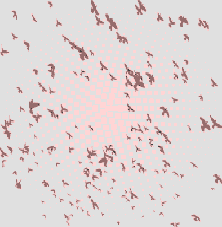
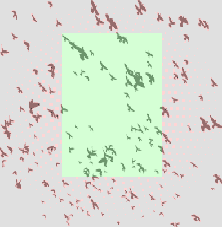
Implement ignore mask

Changed region(s): [[0.2703, 0.1233, 0.7297, 0.8018]]

diff --git a/Analysis/analyze.py b/Analysis/analyze.py
@@ -21,18 +21,28 @@ def convert_two_images_to_rgba(images_array):
     return baseline_image, compare_image
 
 
-def get_output_image_pixels(mask, compare_image_pixel_values, ignore_mask):
+def get_output_image_pixels(mask, compare_image_pixel_values, ignore_mask = None):
 
     i = 0
-    while i < len(compare_image_pixel_values):
-        j = 0
-        while j < len(compare_image_pixel_values[i]):
-            if mask[i][j][0] == True and ignore_mask[i][j][0] != 1:
-                compare_image_pixel_values[i][j] = numpy.subtract(compare_image_pixel_values[i][j], [-50, 50, 50, 100])
-            elif ignore_mask[i][j][0] == 1:
-                compare_image_pixel_values[i][j] = numpy.subtract(compare_image_pixel_values[i][j], [50, -50, 50, 100])
-            j = j + 1
-        i = i + 1
+
+    if ignore_mask == None:
+        while i < len(compare_image_pixel_values):
+            j = 0
+            while j < len(compare_image_pixel_values[i]):
+                if mask[i][j][0] == True:
+                    compare_image_pixel_values[i][j] = numpy.subtract(compare_image_pixel_values[i][j], [-50, 50, 50, 100])
+                j = j + 1
+            i = i + 1
+    else:
+        while i < len(compare_image_pixel_values):
+            j = 0
+            while j < len(compare_image_pixel_values[i]):
+                if mask[i][j][0] == True and ignore_mask[i][j][0] == False:
+                    compare_image_pixel_values[i][j] = numpy.subtract(compare_image_pixel_values[i][j], [-50, 50, 50, 100])
+                elif ignore_mask[i][j][0] == True:
+                    compare_image_pixel_values[i][j] = numpy.subtract(compare_image_pixel_values[i][j], [50, -50, 50, 100])
+                j = j + 1
+            i = i + 1
     return compare_image_pixel_values
 
 
@@ -44,20 +54,15 @@ def save_output_image_from_array(pixel_array):
     output_image.save("../Output/Output.png")
 
 
-def adjust_for_ignore_regions(difs, ignore_mask):
+def adjust_for_ignore_regions(difs, ignore_mask = None):
 
     if ignore_mask != None:
-        mask = ignore_mask > 0
-        difs[mask] = 0
+        difs[ignore_mask] = 0
     return difs
 
 
-def update_ignore_mask_array(ignore_mask_array, ignore_mask_images):
-    return ignore_mask_array
 
-
-
-def diffs(baseline_image, compare_image, ignore_mask_images = None):
+def diffs(baseline_image, compare_image, ignore_mask_image = None):
 
     baseline_image, compare_image = convert_two_images_to_rgba(resize_images(baseline_image, compare_image))
     width, height = baseline_image.size
@@ -69,9 +74,10 @@ def diffs(baseline_image, compare_image, ignore_mask_images = None):
 
     difs = numpy.subtract(compare_image_pixel_values, baseline_image_pixel_values)
 
-    ignore_mask_array = numpy.full((width, height, 4), 0)
-    if ignore_mask_images != None:
-        ignore_mask_array = update_ignore_mask_array(ignore_mask_array, ignore_mask_images)
+    if ignore_mask_image != None:
+        pixels = list(ignore_mask_image.getdata())
+        pixels = numpy.array(pixels).reshape(width, height, 4, order="F")
+        ignore_mask_array = pixels < 15#Give it a little padding
 
     difs = adjust_for_ignore_regions(difs, ignore_mask_array)
 

diff --git a/API/qapics.py b/API/qapics.py
@@ -7,7 +7,10 @@ import analyze
 baseline_image = Image.open(sys.argv[1], 'r')
 compare_image = Image.open(sys.argv[2], 'r')
 
-def get_differences(baseline_image, compare_image):
-	print(analyze.diffs(baseline_image, compare_image, [33, 20, 10, 10]))
+if sys.argv[3] != None:
+	mask_image = Image.open(sys.argv[3], 'r')
 
-get_differences(baseline_image, compare_image)
+def get_differences(baseline_image, compare_image, mask_image):
+	print(analyze.diffs(baseline_image, compare_image, mask_image))
+
+get_differences(baseline_image, compare_image, mask_image)
